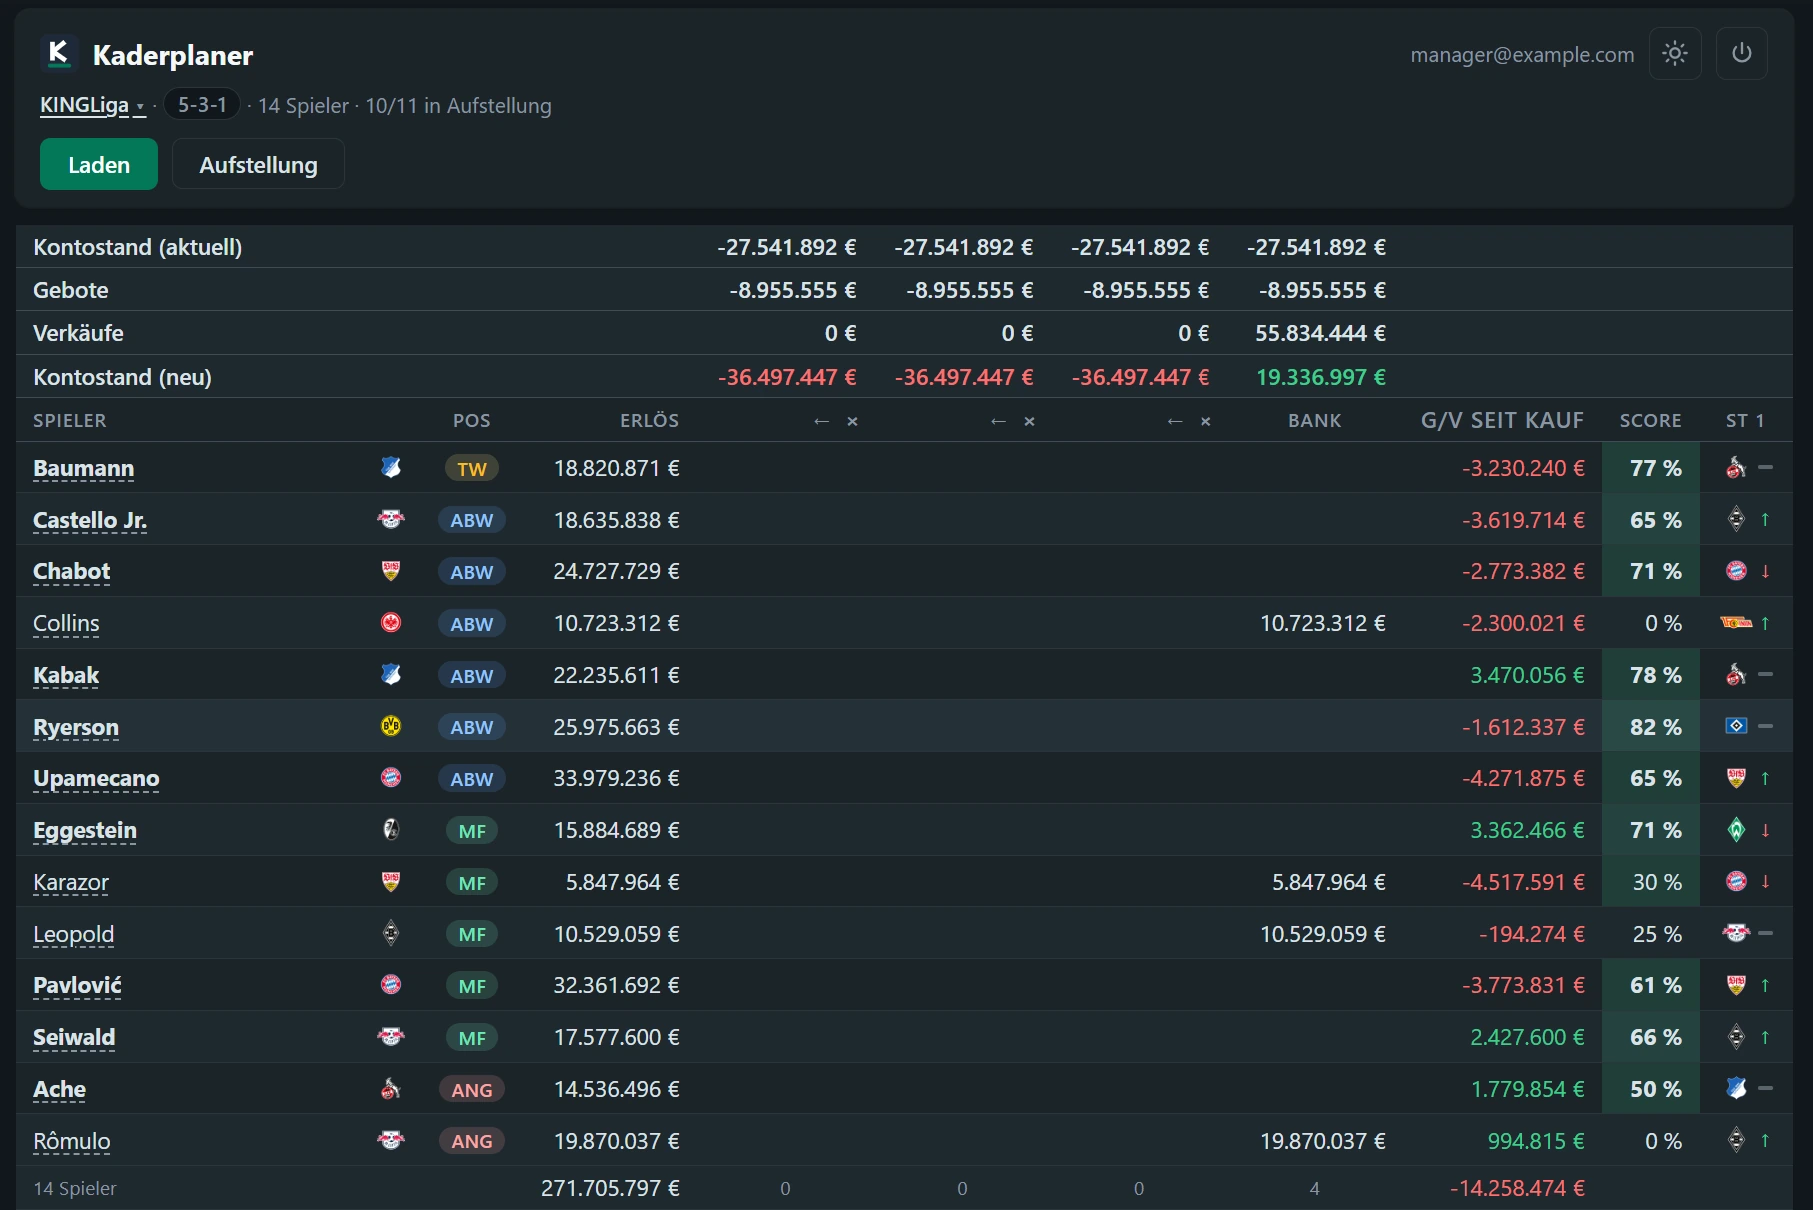
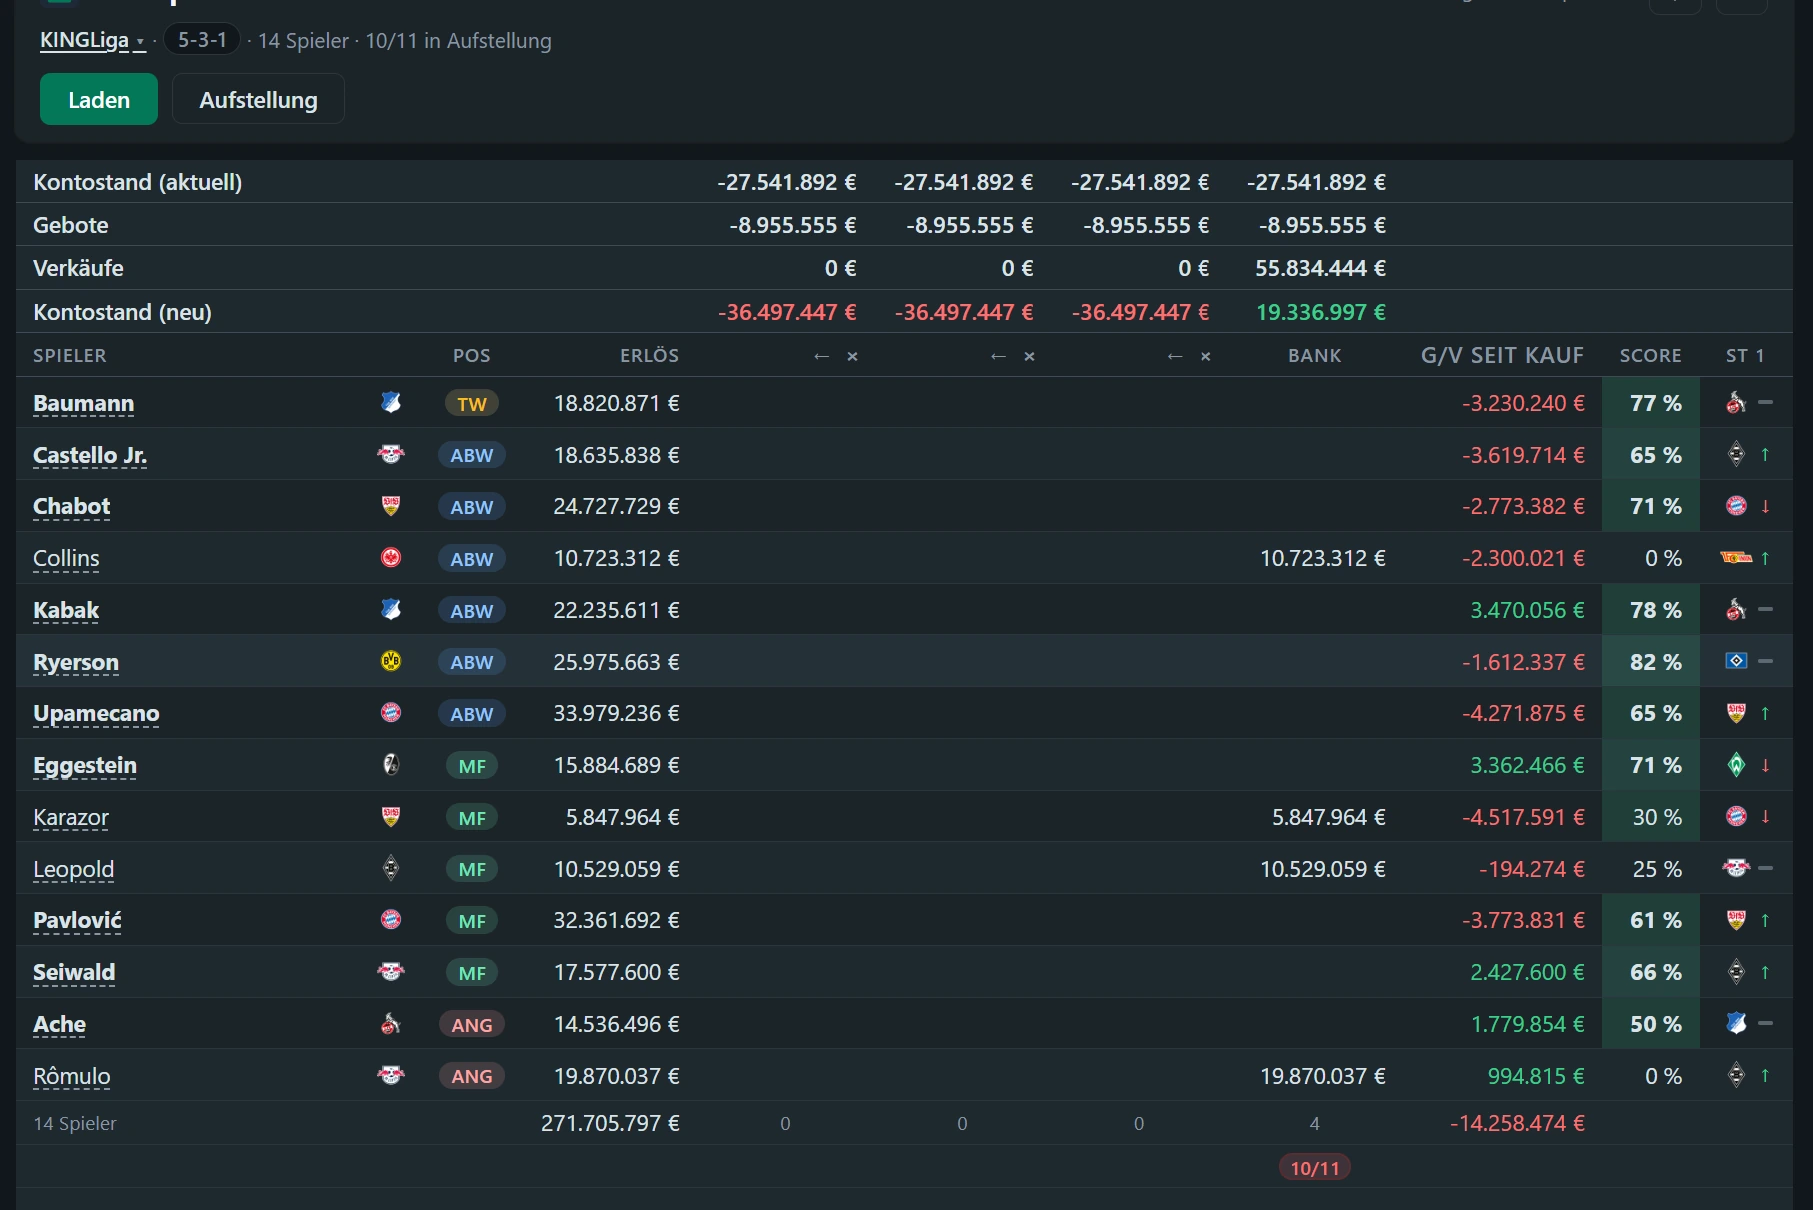
style: die Anmeldung hebt sich im Dunkel-Modus ab
Die Karte lag auf dem Screenshot und ging darin unter: Fläche eine Spur heller, Kante von 6 auf 9 Prozent Weiß, dazu ein Schatten nach unten. Im hellen Design ändert sich nichts.

Dazu das dunkle Tabellenbild um 65 px nach oben geschoben. Der Rahmen schneidet oben 21 Prozent weg, und dort lag bisher die Lücke zwischen Kopf- und Tabellenkarte: im Hellen unsichtbar, im Dunkeln ein schwarzer Streifen.

diff --git a/src/styles/base.css b/src/styles/base.css
@@ -551,6 +551,18 @@ button {
   gap: 13px;
 }
 
+/*
+ * Nur im Dunkel-Modus: die Anmeldung liegt auf dem Screenshot und ging darin
+ * unter. Eine Spur hellere Fläche, eine hellere Kante und ein Schatten, der
+ * sie vom Bild abhebt. Hell trennt der Kontrast schon von allein.
+ */
+html[data-theme='dark'] .lp-panel {
+  background: #202930;
+  box-shadow:
+    0 24px 48px rgba(0, 0, 0, 0.55),
+    0 0 0 1px rgba(255, 255, 255, 0.09);
+}
+
 .lp-panel-title {
   margin: 0;
   font-size: 20px;
